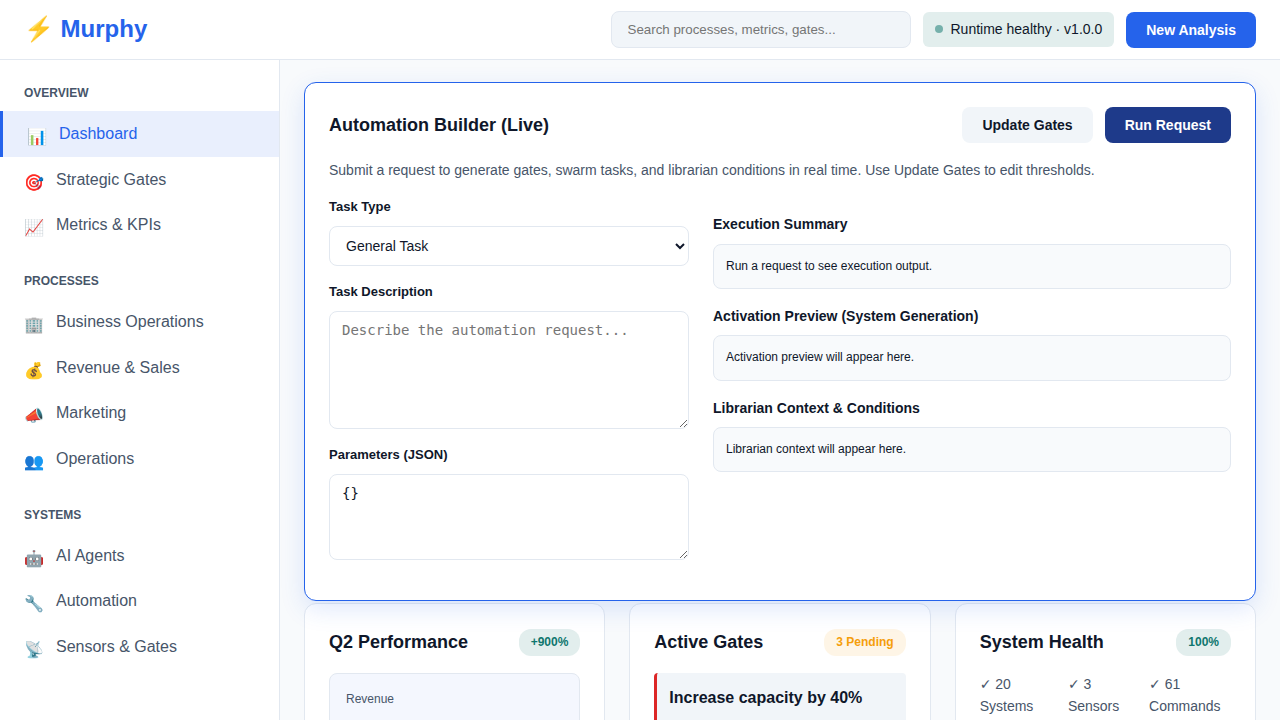
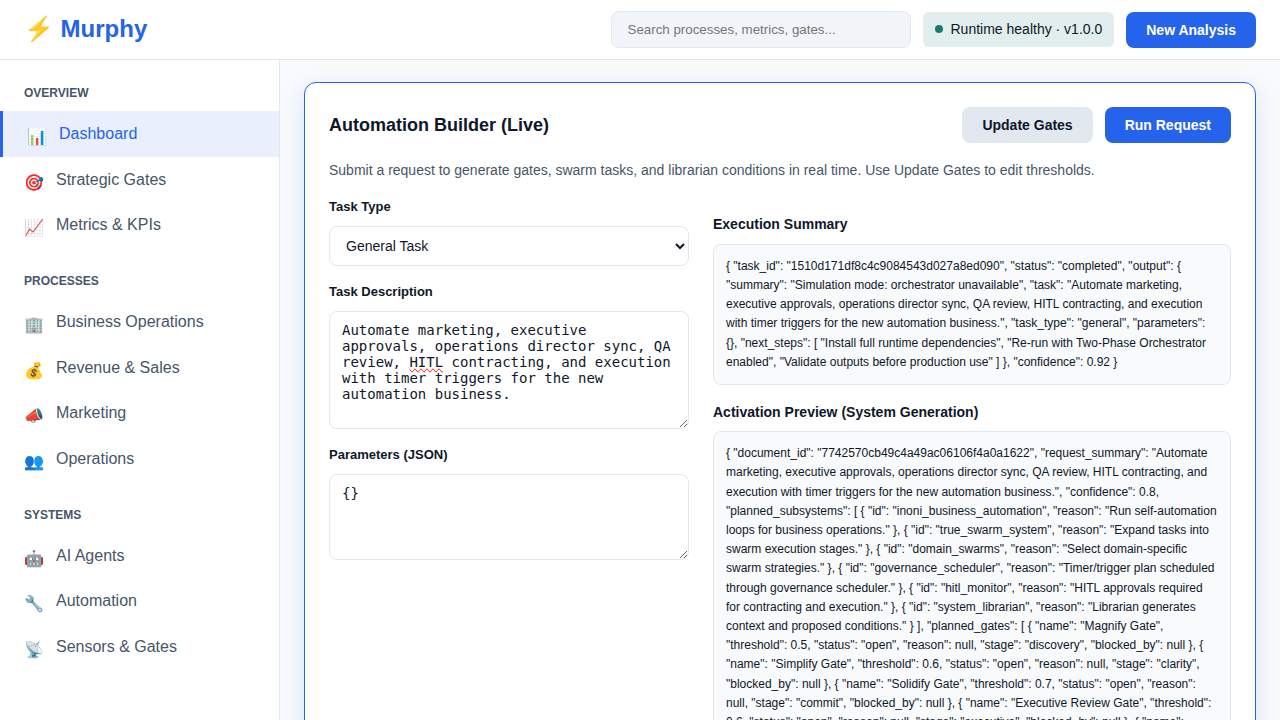
Update production UI walkthrough

diff --git a/VISUAL_SETUP_GUIDE_WITH_SCREENSHOTS.md b/VISUAL_SETUP_GUIDE_WITH_SCREENSHOTS.md
@@ -18,14 +18,13 @@
 6. [Starting Murphy](#starting-murphy)
 7. [Verification & Testing](#verification-testing)
 8. [Optional UI Access](#optional-ui-access-terminal-ui)
-9. [Execute a Task in the UI](#execute-a-task-in-the-ui)
-10. [Production UI Walkthrough](#production-ui-walkthrough)
-11. [Terminal UI Walkthroughs](#terminal-ui-walkthroughs)
-12. [Available API Endpoints](#available-api-endpoints)
-13. [Block Command Tree Walkthrough](#block-command-tree-walkthrough)
-14. [Gate Policy Updates & Timers](#gate-policy-updates--timers)
-15. [Control Metrics Preview](#control-metrics-preview)
-16. [Next Steps](#next-steps)
+9. [Production UI Walkthrough](#production-ui-walkthrough)
+10. [Terminal UI Walkthroughs](#terminal-ui-walkthroughs)
+11. [Available API Endpoints](#available-api-endpoints)
+12. [Block Command Tree Walkthrough](#block-command-tree-walkthrough)
+13. [Gate Policy Updates & Timers](#gate-policy-updates--timers)
+14. [Control Metrics Preview](#control-metrics-preview)
+15. [Next Steps](#next-steps)
 
 ---
 
@@ -406,27 +405,27 @@ Open the architect terminal, run a high-level command, and use magnify/simplify/
 
 ---
 
-### Step 21: Integrated Activation Preview
+### Step 21: Production Activation Preview
 
-Run a form task to see the planned subsystems, gates, swarm tasks, and capability alignment gaps.
+Run a request in the production UI to see the planned subsystems, gates, swarm tasks, and capability alignment gaps.
 
-![Activation Preview](docs/screenshots/20_ui_activation_preview.png)
+![Production Activation Preview](docs/screenshots/25_ui_production_execution.png)
 
 ---
 
-### Step 22: Integrated Capability Tests
+### Step 22: Production Capability Tests
 
-Run the same request to see capability test errors and successful subsystem checks.
+Inspect the activation preview JSON in the production UI to see capability test errors and successful subsystem checks.
 
-![Activation Tests](docs/screenshots/21_ui_activation_tests.png)
+![Production Capability Tests](docs/screenshots/27_ui_production_control_metrics.png)
 
 ---
 
 ### Step 23: Self-Automation Loop Output
 
-Run the self-automation request to see the business automation loop results.
+Use the production UI execution output to confirm business automation loop results and self-operation status.
 
-![Automation Loop](docs/screenshots/22_ui_automation_loop.png)
+![Production Automation Loop](docs/screenshots/25_ui_production_execution.png)
 
 ---
 
@@ -436,7 +435,7 @@ Run the self-automation request to see the business automation loop results.
 
 Use **Update Gates** in the production UI to adjust gate thresholds (executive, operations, QA, HITL, execution) and immediately see the timer/trigger plan update.
 
-![Gate Policy Update](docs/screenshots/23_ui_gate_policy_update.png)
+![Gate Policy Update](docs/screenshots/26_ui_production_gate_update.png)
 
 ---
 

diff --git a/docs/screenshots/README.md b/docs/screenshots/README.md
@@ -19,16 +19,16 @@ This directory contains visual screenshots for the Murphy System setup process.
 | 11_api_docs.png | API documentation browser view | 1000x500 |
 | 12_ui_terminal.png | Terminal UI dashboard | 1280x720 |
 | 13_ui_terminal_execute.png | Terminal UI task execution example | 1280x1019 |
-| 14_ui_integrated_form_execution.png | Integrated UI form execution example | 1280x1240 |
-| 15_ui_integrated_terminal_execute.png | Integrated terminal UI execute tab | 1280x1219 |
+| 14_ui_integrated_form_execution.png | Legacy integrated UI form execution example | 1280x1240 |
+| 15_ui_integrated_terminal_execute.png | Legacy integrated terminal UI execute tab | 1280x1219 |
 | 16_ui_terminal_integrated_submit.png | Integrated terminal command submission | 1280x736 |
 | 17_ui_terminal_architect_flow.png | Architect terminal flow step | 1280x720 |
 | 18_ui_terminal_worker_status.png | Worker terminal status flow | 1280x722 |
 | 19_ui_architect_block_tree.png | Architect block command tree with magnify/simplify/solidify | 1280x720 |
-| 20_ui_activation_preview.png | Integrated UI activation preview with capability alignment | 1280x2411 |
-| 21_ui_activation_tests.png | Integrated UI capability tests and error output | 1280x4154 |
-| 22_ui_automation_loop.png | Integrated UI showing self-automation loop execution | 1280x13349 |
-| 23_ui_gate_policy_update.png | Integrated UI showing gate policy updates and trigger plan | 1280x3541 |
+| 20_ui_activation_preview.png | Legacy integrated UI activation preview with capability alignment | 1280x2411 |
+| 21_ui_activation_tests.png | Legacy integrated UI capability tests and error output | 1280x4154 |
+| 22_ui_automation_loop.png | Legacy integrated UI showing self-automation loop execution | 1280x13349 |
+| 23_ui_gate_policy_update.png | Legacy integrated UI showing gate policy updates and trigger plan | 1280x3541 |
 | 24_ui_production_overview.png | Production UI overview (light theme) | 1280x720 |
 | 25_ui_production_execution.png | Production UI execution with activation preview | 1280x720 |
 | 26_ui_production_gate_update.png | Production UI gate policy update flow | 1280x720 |

diff --git a/README.md b/README.md
@@ -59,6 +59,7 @@ start_murphy_1.0.bat   # Windows
 - **Only runtime prepared:** `murphy_system_1.0_runtime.py` is the single runnable runtime today. References to v2/v3 are planning docs only.
 - **How to run:** `cd "Murphy System/murphy_integrated" && ./start_murphy_1.0.sh`
 - **What you can test:** `/api/health`, `/api/status`, `/api/info`, `/api/execute`, and automation endpoints under `/api/automation/...`
+- **Production UI:** serve `Murphy System/murphy_production_ui.html` with `python -m http.server 8090` and open `http://localhost:8090/murphy_production_ui.html?apiPort=6666`
 - **Details:** see [Runtime 1.0 Status](Murphy%20System/murphy_integrated/RUNTIME_1.0_STATUS.md)
 
 * * *
